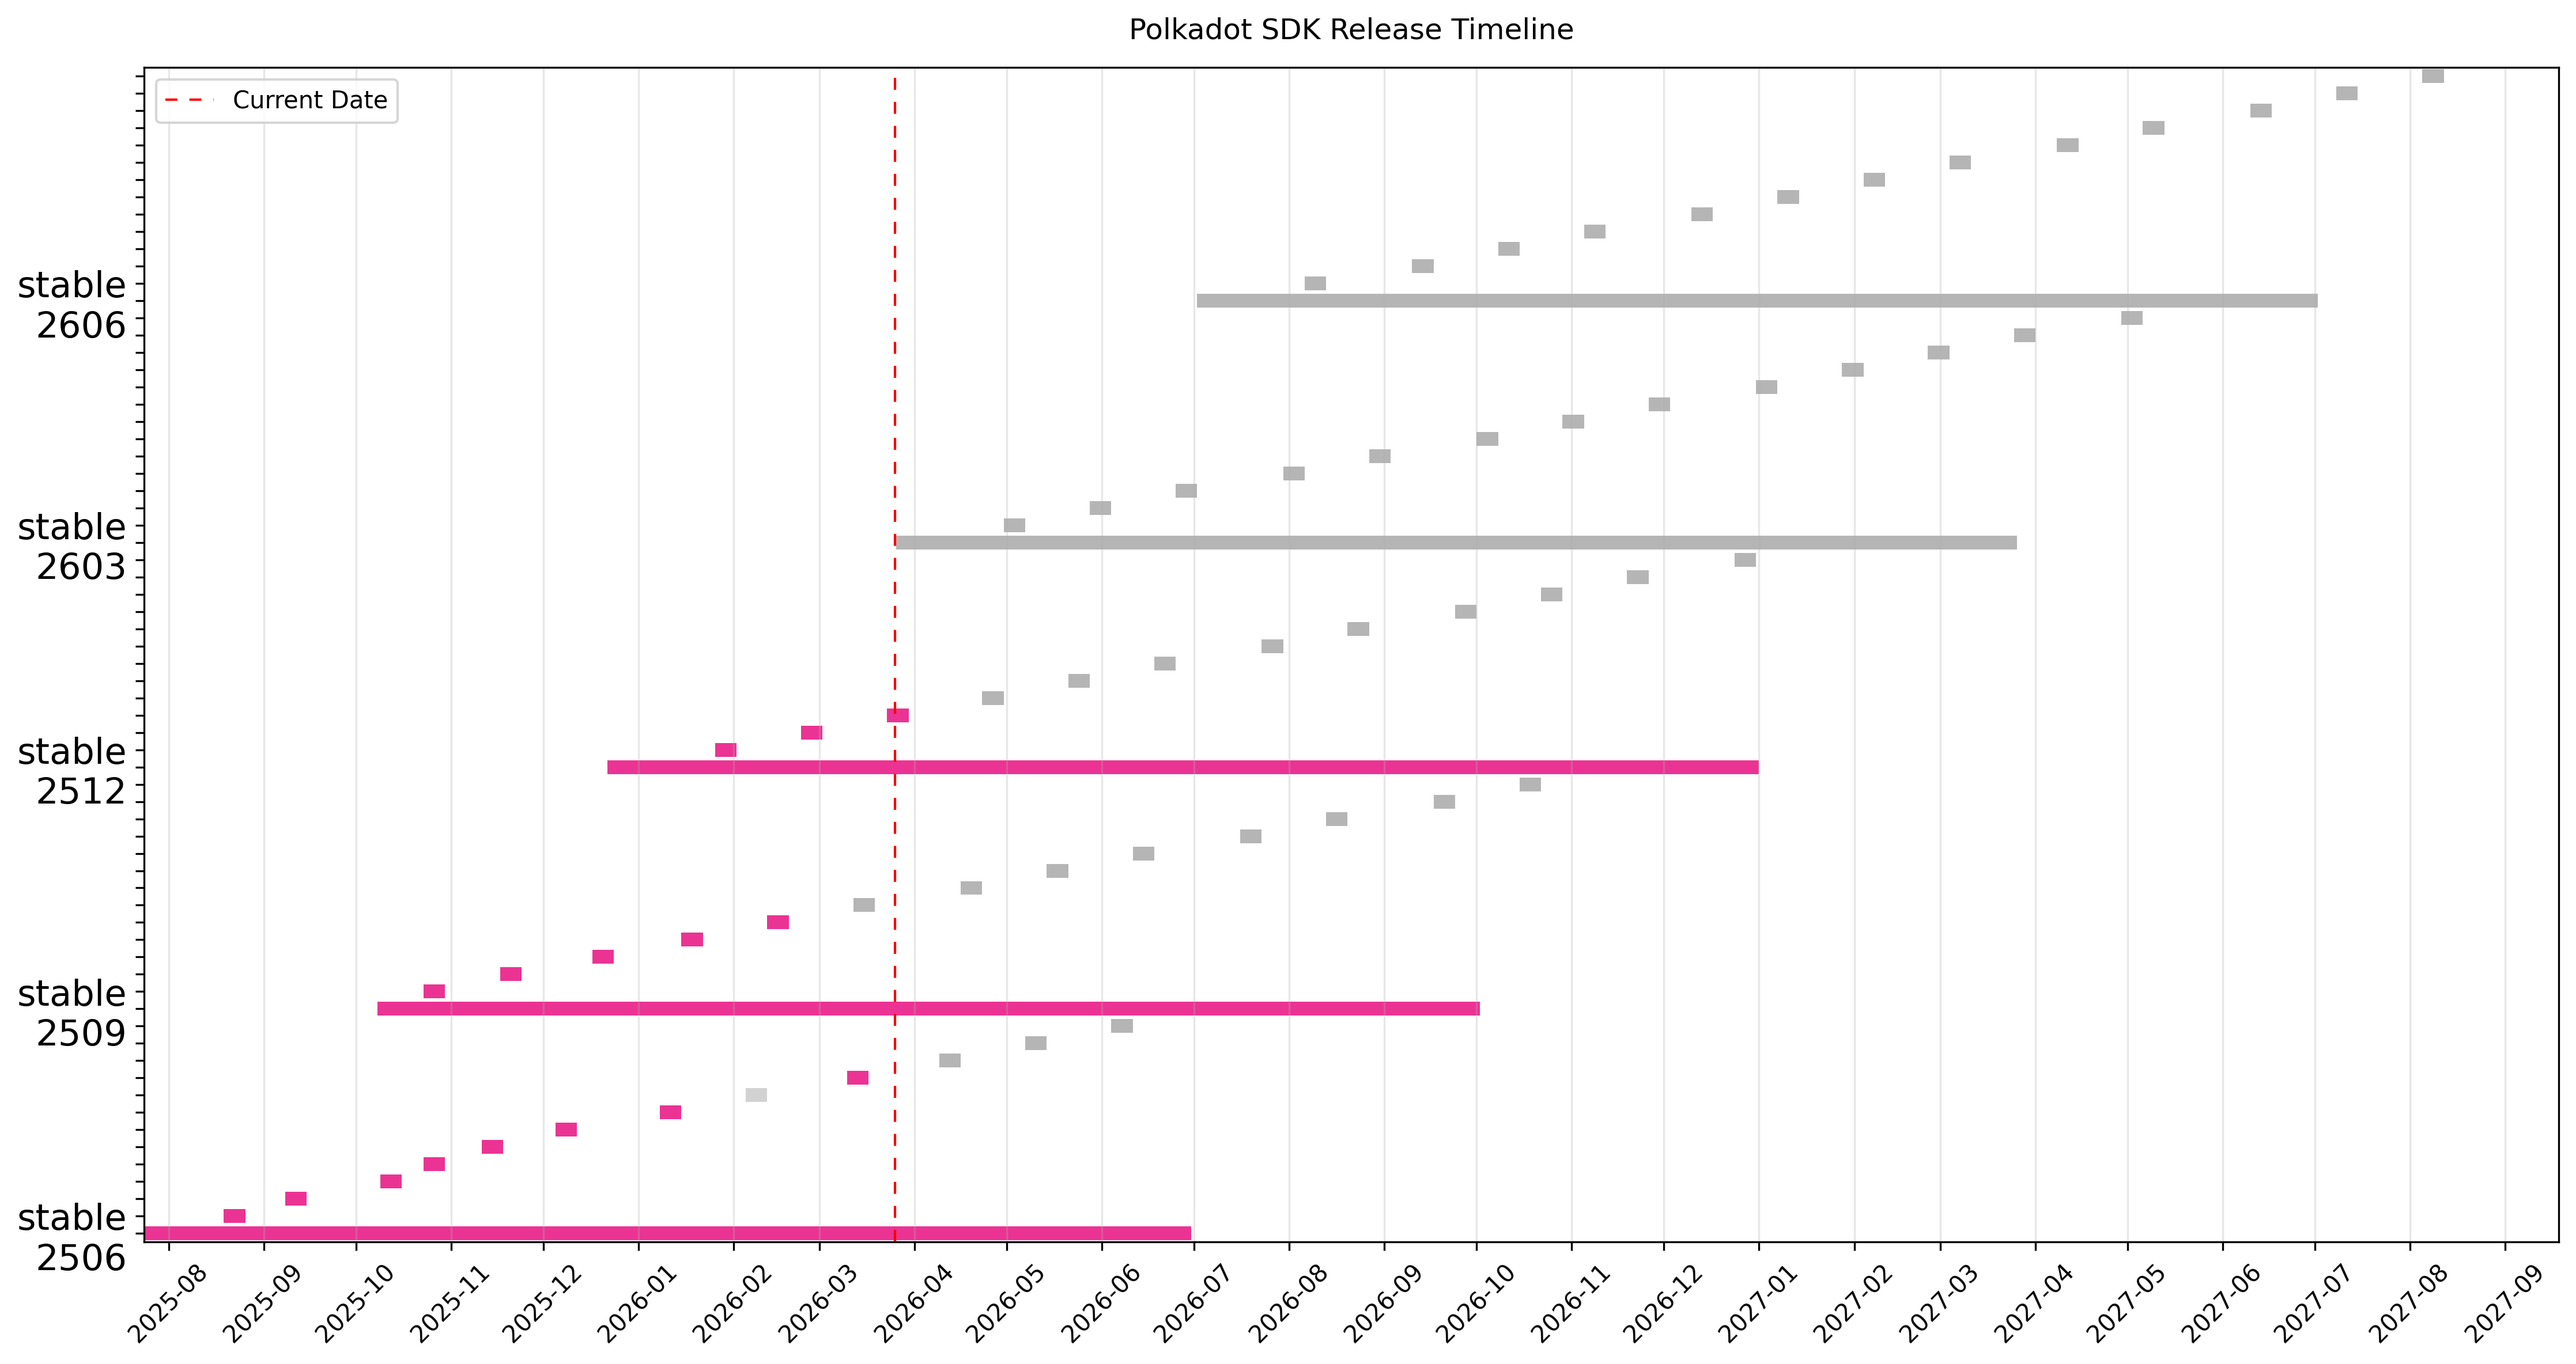
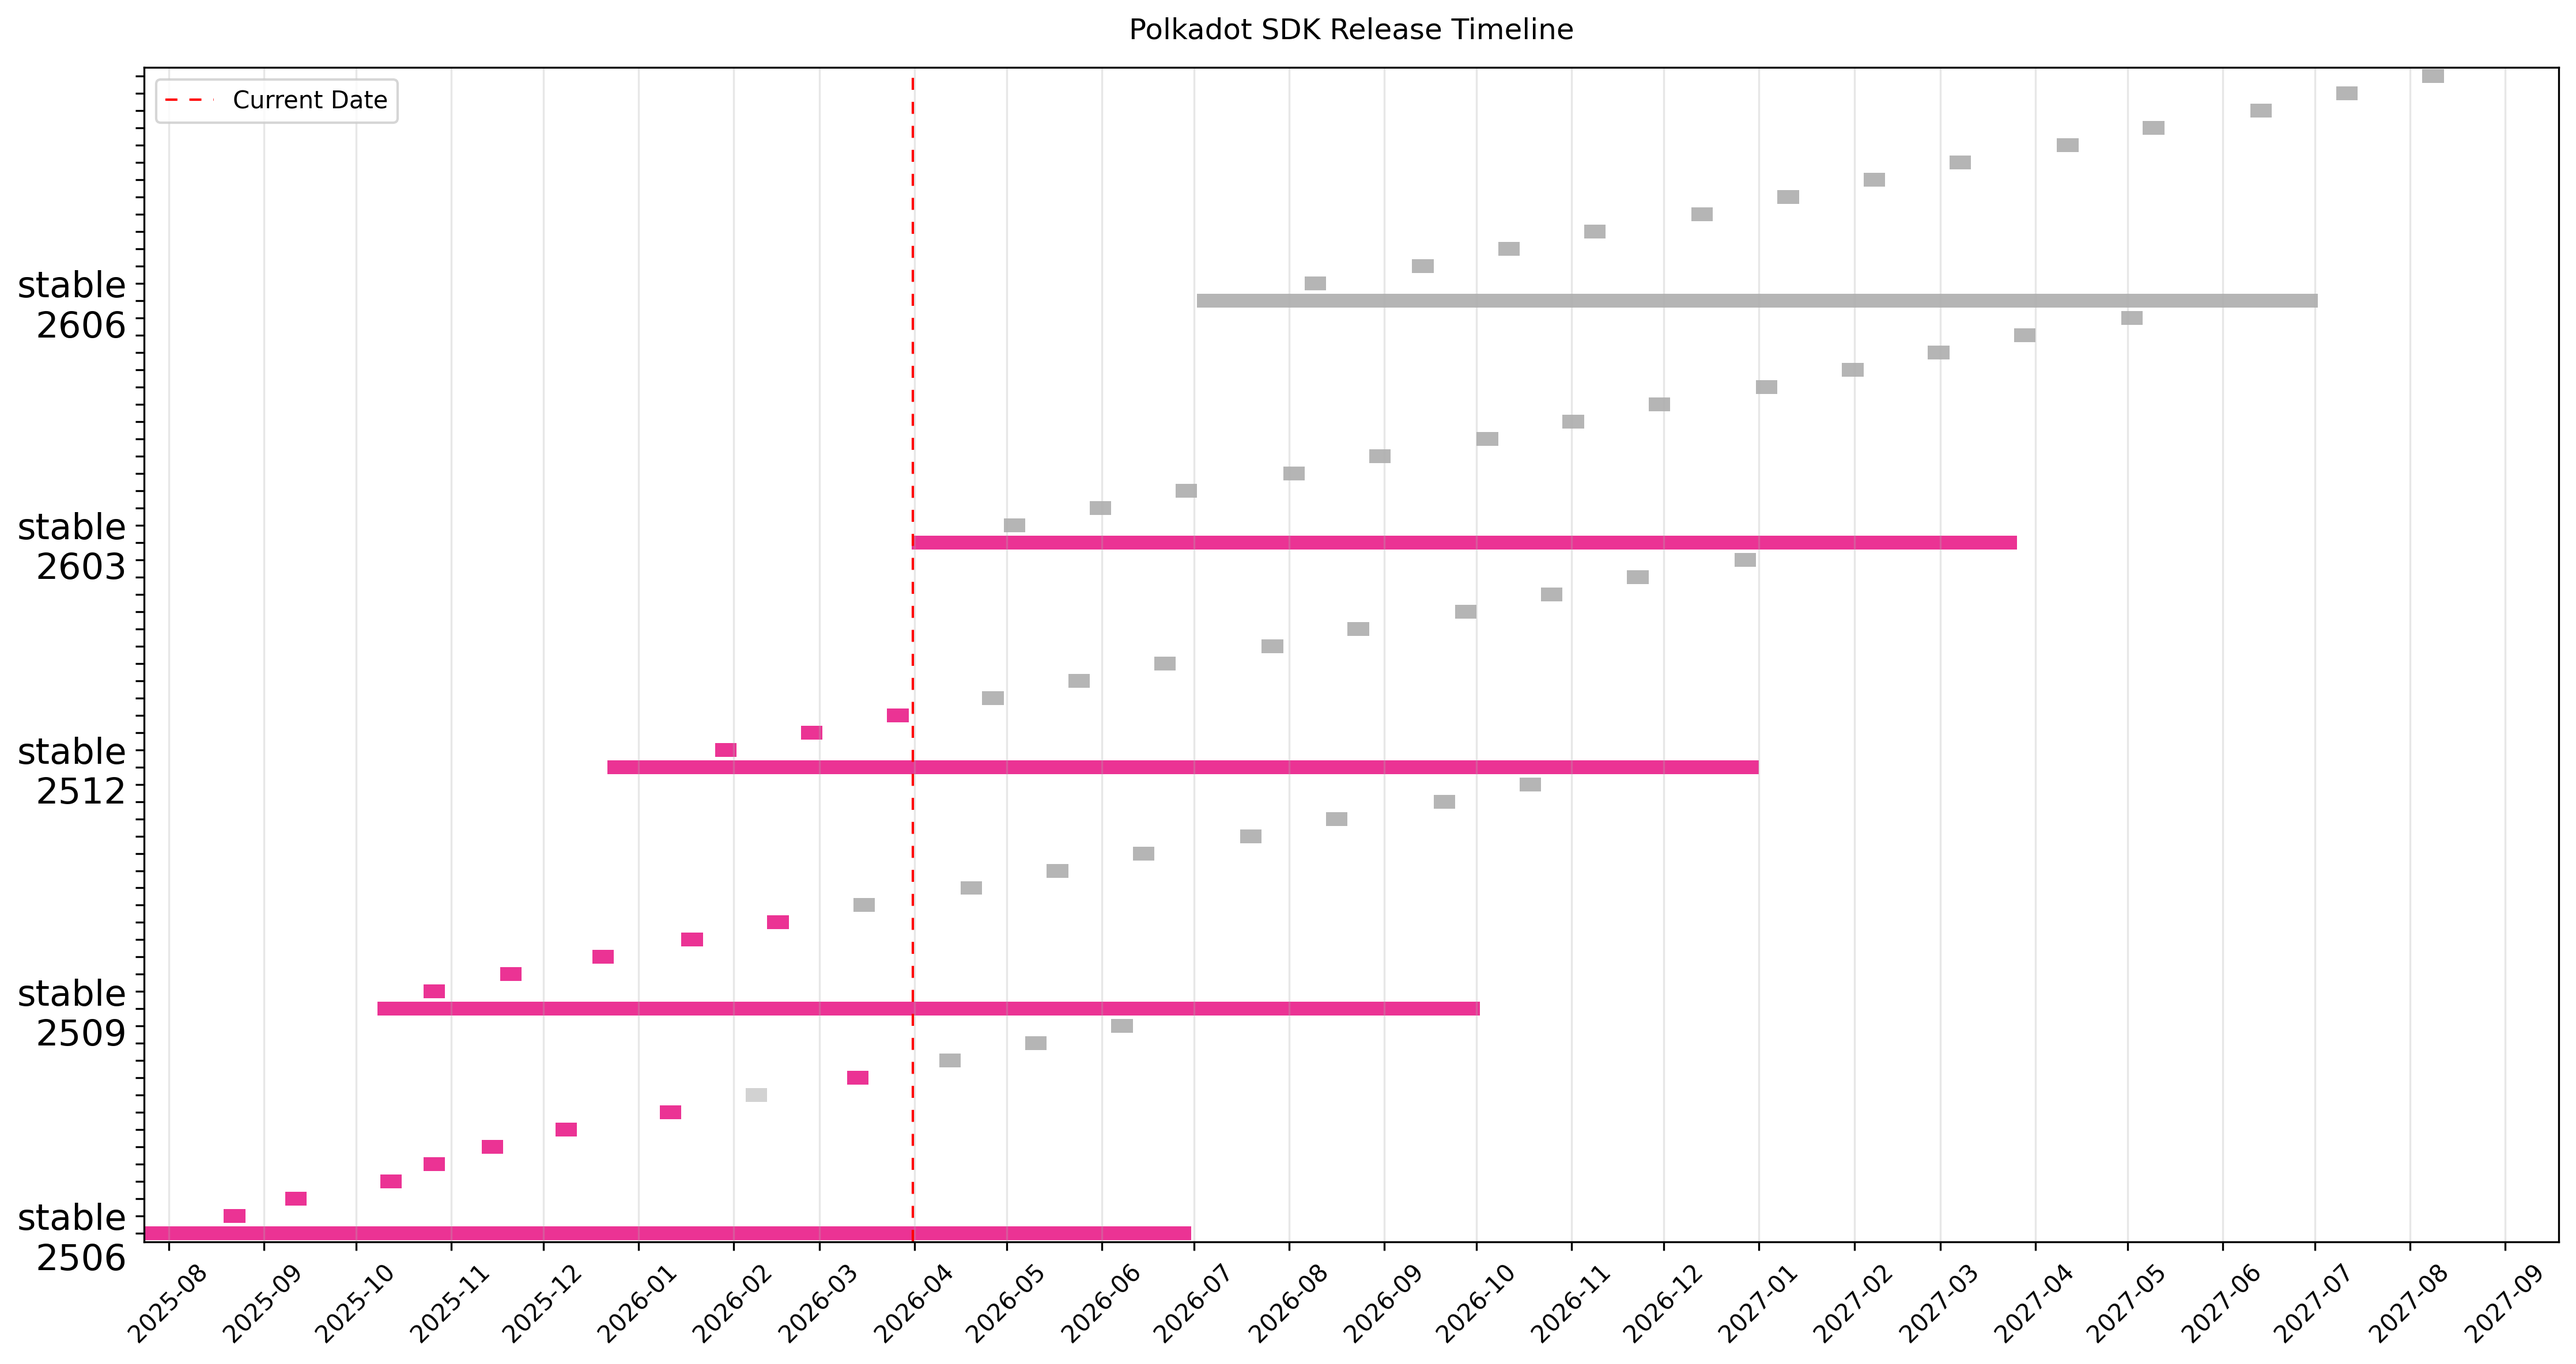
Release stable2603 (#121)

Changed region(s): [[0.3421, 0.375, 0.7774, 0.4062]]

diff --git a/CALENDAR.md b/CALENDAR.md
@@ -22,7 +22,7 @@ Full untruncated version index.
 | &nbsp;&nbsp;stable2606-11 | 1.23.11 | 2027-06-07 | 2027-06-10 |  | Planned |
 | &nbsp;&nbsp;stable2606-12 | 1.23.12 | 2027-07-05 | 2027-07-08 |  | Planned |
 | &nbsp;&nbsp;stable2606-13 | 1.23.13 | 2027-08-02 | 2027-08-05 |  | Planned |
-| **stable2603** | 1.22.0 | 2026-02-09 | 2026-03-26 | 2027-03-26 | Planned |
+| **stable2603** | 1.22.0 | 2026-02-09 | 2026-03-31 | 2027-03-26 | [Released](https://github.com/paritytech/polkadot-sdk/releases/tag/polkadot-stable2603) |
 | &nbsp;&nbsp;stable2603-1 | 1.22.1 | 2026-04-27 | 2026-04-30 |  | Planned |
 | &nbsp;&nbsp;stable2603-2 | 1.22.2 | 2026-05-25 | 2026-05-28 |  | Planned |
 | &nbsp;&nbsp;stable2603-3 | 1.22.3 | 2026-06-22 | 2026-06-25 |  | Planned |

diff --git a/README.md b/README.md
@@ -24,7 +24,7 @@ Planned and historic release dates:
 | &nbsp;&nbsp;stable2606-1 | 1.23.1 | 2026-08-03 | 2026-08-06 |  | Planned |
 | &nbsp;&nbsp;stable2606-2 | 1.23.2 | 2026-09-07 | 2026-09-10 |  | Planned |
 | &nbsp;&nbsp;[11 more planned](CALENDAR.md) |  |  | | |
-| **stable2603** | 1.22.0 | 2026-02-09 | 2026-03-26 | 2027-03-26 | Planned |
+| **stable2603** | 1.22.0 | 2026-02-09 | 2026-03-31 | 2027-03-26 | [Released](https://github.com/paritytech/polkadot-sdk/releases/tag/polkadot-stable2603) |
 | &nbsp;&nbsp;stable2603-1 | 1.22.1 | 2026-04-27 | 2026-04-30 |  | Planned |
 | &nbsp;&nbsp;stable2603-2 | 1.22.2 | 2026-05-25 | 2026-05-28 |  | Planned |
 | &nbsp;&nbsp;[11 more planned](CALENDAR.md) |  |  | | |
